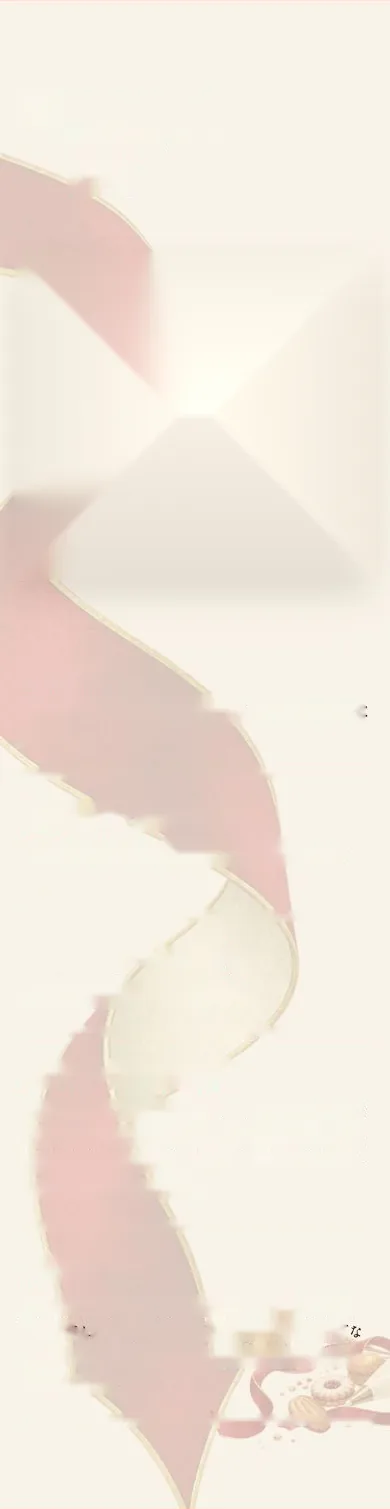
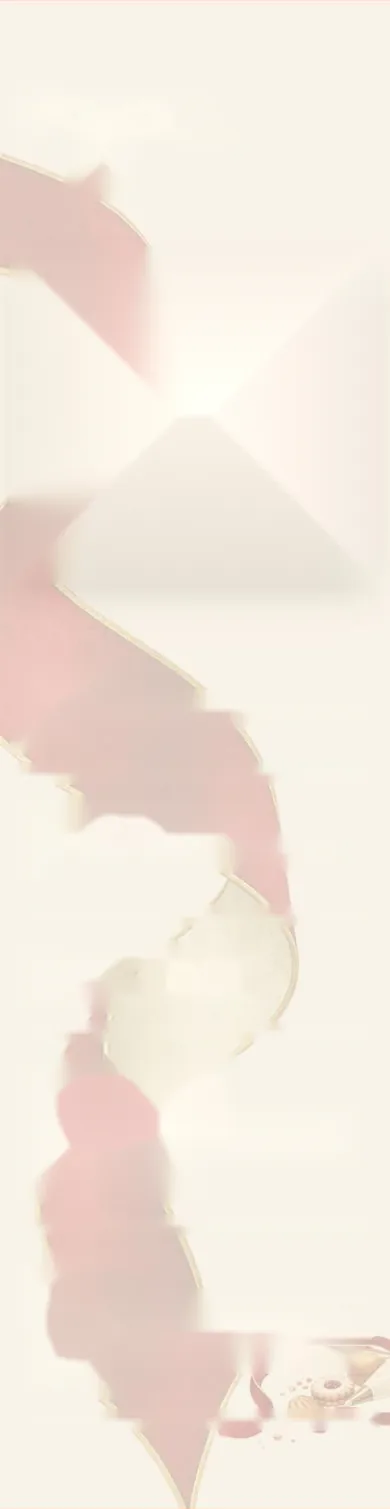
Apply review feedback: 28卒 only, rewrite section 02, reorder and retitle section 07
- Remove 29卒 from FV, entry form subtitle, metadata and graduation options
- Section 02: rewrite cards as traits of people who fit (no longer duplicating section 04 quotes)
- Section 07: order BS制度 → 部門別・階層別研修 → 連続休暇 → コミュニケーション会 → 社員旅行・同好会支援,
  heading 厳しくも温かい「大家族主義」
- Clean background plates where text positions changed

Claude-Session: https://claude.ai/code/session_01DDNP1SBTqJgeZtS4CdBryt

diff --git a/src/data/content.ts b/src/data/content.ts
@@ -11,25 +11,25 @@ export const STANCES = [
   {
     no: '01',
     title: '人やイベントが好き',
-    text: '実はロマンライフって遊びやお祭り事が好きな会社なんです。人が好きとか、イベント事が好きという方は、そういう気持ちも大事にしてほしいですね。',
+    text: '人と関わることや、季節の行事・催しを楽しめる人。お客様や仲間と一緒につくる時間を、心から楽しめる人に向いています。',
     img: 'stance-01',
   },
   {
     no: '02',
-    title: '信頼を超える仕事',
-    text: 'お客様はロマンライフのブランドを信頼してくださっているからこそ、商品や接客、すべてにおいて求めるクオリティが高いのではないかと。その理想を裏切らず、超えていこうとすることで、私たちは成長できているのではないかと考えています。',
+    title: '期待を超えたい人',
+    text: 'ブランドに寄せられる信頼に「もっと喜んでほしい」と応えようとできる人。高い基準を前向きに楽しめる人に向いています。',
     img: 'stance-02',
   },
   {
     no: '03',
-    title: '大家族主義',
-    text: '厳しさと温かさの両方を大切にし、一人ひとりの成長を支え合う。そんな大きな家族のような強い「和」を持つような会社です。',
+    title: '仲間と支え合える人',
+    text: '一人で完結する仕事はほとんどありません。仲間の成長を自分のことのように喜べる人に向いています。',
     img: 'stance-03',
   },
   {
     no: '04',
-    title: '挑戦できる楽しさ',
-    text: 'ロマンライフは接客だけでなく、いろんな分野においてチャレンジすることを応援してくれる会社です。若手にもチャンスがたくさん巡ってくるので、成長意欲が高い人にはうってつけの職場だと思います。',
+    title: '新しいことに挑戦したい人',
+    text: '接客だけでなく、さまざまな分野に挑戦できる環境です。若いうちから手を挙げ、経験を成長につなげたい人に向いています。',
     img: 'stance-04',
   },
 ] as const;
@@ -92,16 +92,10 @@ export const CAREER = [
 
 export const SUPPORTS = [
   {
-    title: '連続休暇',
-    body: [{ mark: '8日間連続休暇・4日間連続休暇' }, 'を、1年に1回ずつ取得します。'],
-  },
-  {
-    title: '社員旅行・同好会支援',
-    body: ['部署を越えた交流や、', { mark: '仲間とのつながり' }, 'を育てます。'],
-  },
-  {
-    title: 'コミュニケーション会',
-    body: [{ mark: '職場内の懇親会' }, 'を会社が補助します。'],
+    title: 'BS制度',
+    body: [
+      '新人1人につき先輩社員がひとりついて、業務の指導を担当し、フォローします。業務の習得だけでなく、悩みや不安など、新人のよき相談相手としても寄り添います。',
+    ],
   },
   {
     title: '部門別・階層別研修',
@@ -110,10 +104,16 @@ export const SUPPORTS = [
     ],
   },
   {
-    title: 'BS制度',
-    body: [
-      '新人1人につき先輩社員がひとりついて、業務の指導を担当し、フォローします。業務の習得だけでなく、悩みや不安など、新人のよき相談相手としても寄り添います。',
-    ],
+    title: '連続休暇',
+    body: [{ mark: '8日間連続休暇・4日間連続休暇' }, 'を、1年に1回ずつ取得します。'],
+  },
+  {
+    title: 'コミュニケーション会',
+    body: [{ mark: '職場内の懇親会' }, 'を会社が補助します。'],
+  },
+  {
+    title: '社員旅行・同好会支援',
+    body: ['部署を越えた交流や、', { mark: '仲間とのつながり' }, 'を育てます。'],
   },
 ] as const;
 
@@ -141,4 +141,4 @@ export const FAQS = [
   ['忙しい時期はいつですか？'],
 ] as const;
 
-export const GRADUATIONS = ['2028年卒業予定', '2029年卒業予定'] as const;
+export const GRADUATIONS = ['2028年卒業予定'] as const;

diff --git a/src/app/page.tsx b/src/app/page.tsx
@@ -32,8 +32,8 @@ export default function Page() {
         <section className="fv" aria-labelledby="fv-title">
           <div className="fv__deco" aria-hidden="true" />
           <div className="fv__inner">
-            <p className="fv__en">2028 / 2029 GRADUATE RECRUITING</p>
-            <p className="fv__target">2028・29年卒向け 新卒採用</p>
+            <p className="fv__en">2028 GRADUATE RECRUITING</p>
+            <p className="fv__target">2028年卒向け 新卒採用</p>
             <p className="fv__badge">特別選考あり</p>
             <h1 className="fv__title" id="fv-title">
               お菓子の<br />
@@ -102,7 +102,7 @@ export default function Page() {
               <p>特別な経験よりも、</p>
               <p className="gold">誰かを喜ばせたい</p>
               <p className="gold">気持ち。</p>
-              <p>ロマンライフで働く人の言葉から、4つの姿勢を紹介します。</p>
+              <p>ロマンライフで活躍する人に共通する、<br />4つの姿勢を紹介します。</p>
             </div>
             <ol className="stances">
               {STANCES.map((s) => (
@@ -240,7 +240,7 @@ export default function Page() {
           <div className="growth__deco" aria-hidden="true" />
           <div className="inner">
             <SecHead no="07" en="GROWTH &amp; SUPPORT">
-              <span id="growth-title">成長できる<br />環境</span>
+              <span id="growth-title">厳しくも温かい<br />「大家族主義」</span>
             </SecHead>
             <figure className="photo-card growth__photo">
               <img src={img('photo-meeting')} alt="会議室で研修を受ける社員" loading="lazy" decoding="async" />
@@ -308,7 +308,7 @@ export default function Page() {
             <h2 className="entry__title" id="entry-title">
               あなたの手から、<br />次のしあわせへ。
             </h2>
-            <p className="entry__sub">28・29卒向け説明会エントリーフォーム</p>
+            <p className="entry__sub">28卒向け説明会エントリーフォーム</p>
             <EntryForm webhookConfigured={Boolean(process.env.ENTRY_WEBHOOK_URL)} />
           </div>
         </section>

diff --git a/src/app/layout.tsx b/src/app/layout.tsx
@@ -10,9 +10,9 @@ import '@fontsource/noto-sans-jp/700.css';
 import './globals.css';
 
 const SITE_URL = process.env.NEXT_PUBLIC_SITE_URL || undefined;
-const TITLE = '新卒採用 2028・29年卒向け｜株式会社ロマンライフ';
+const TITLE = '新卒採用 2028年卒向け｜株式会社ロマンライフ';
 const DESCRIPTION =
-  'お菓子の先にある、幸せを届ける仕事。株式会社ロマンライフ（マールブランシュ）の2028・29年卒向け新卒採用サイトです。仕事内容、求める人物像、数字で見るロマンライフ、社員の声、説明会の日時とエントリーフォームをご案内します。';
+  'お菓子の先にある、幸せを届ける仕事。株式会社ロマンライフ（マールブランシュ）の2028年卒向け新卒採用サイトです。仕事内容、求める人物像、数字で見るロマンライフ、社員の声、説明会の日時とエントリーフォームをご案内します。';
 
 export const metadata: Metadata = {
   metadataBase: SITE_URL ? new URL(SITE_URL) : undefined,
